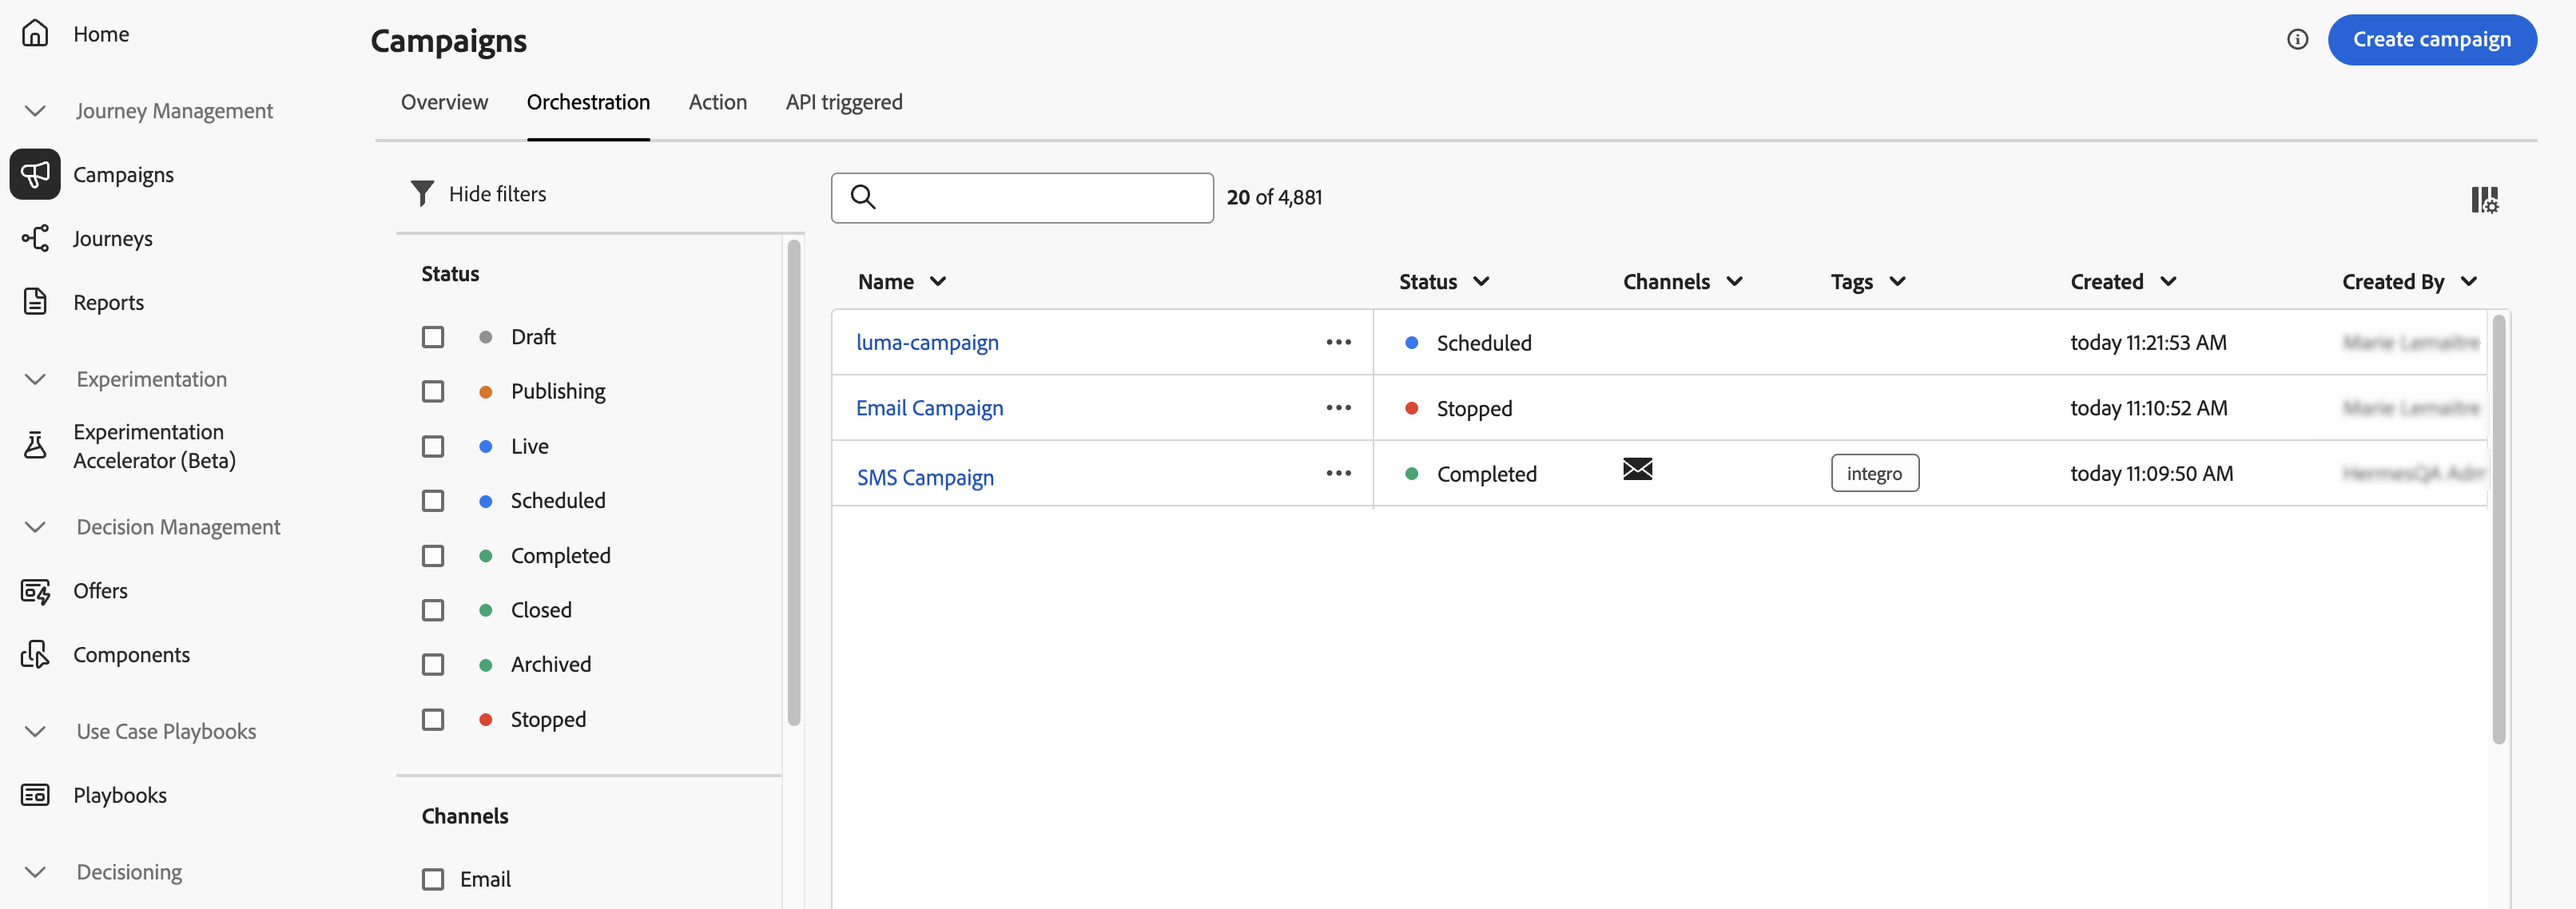
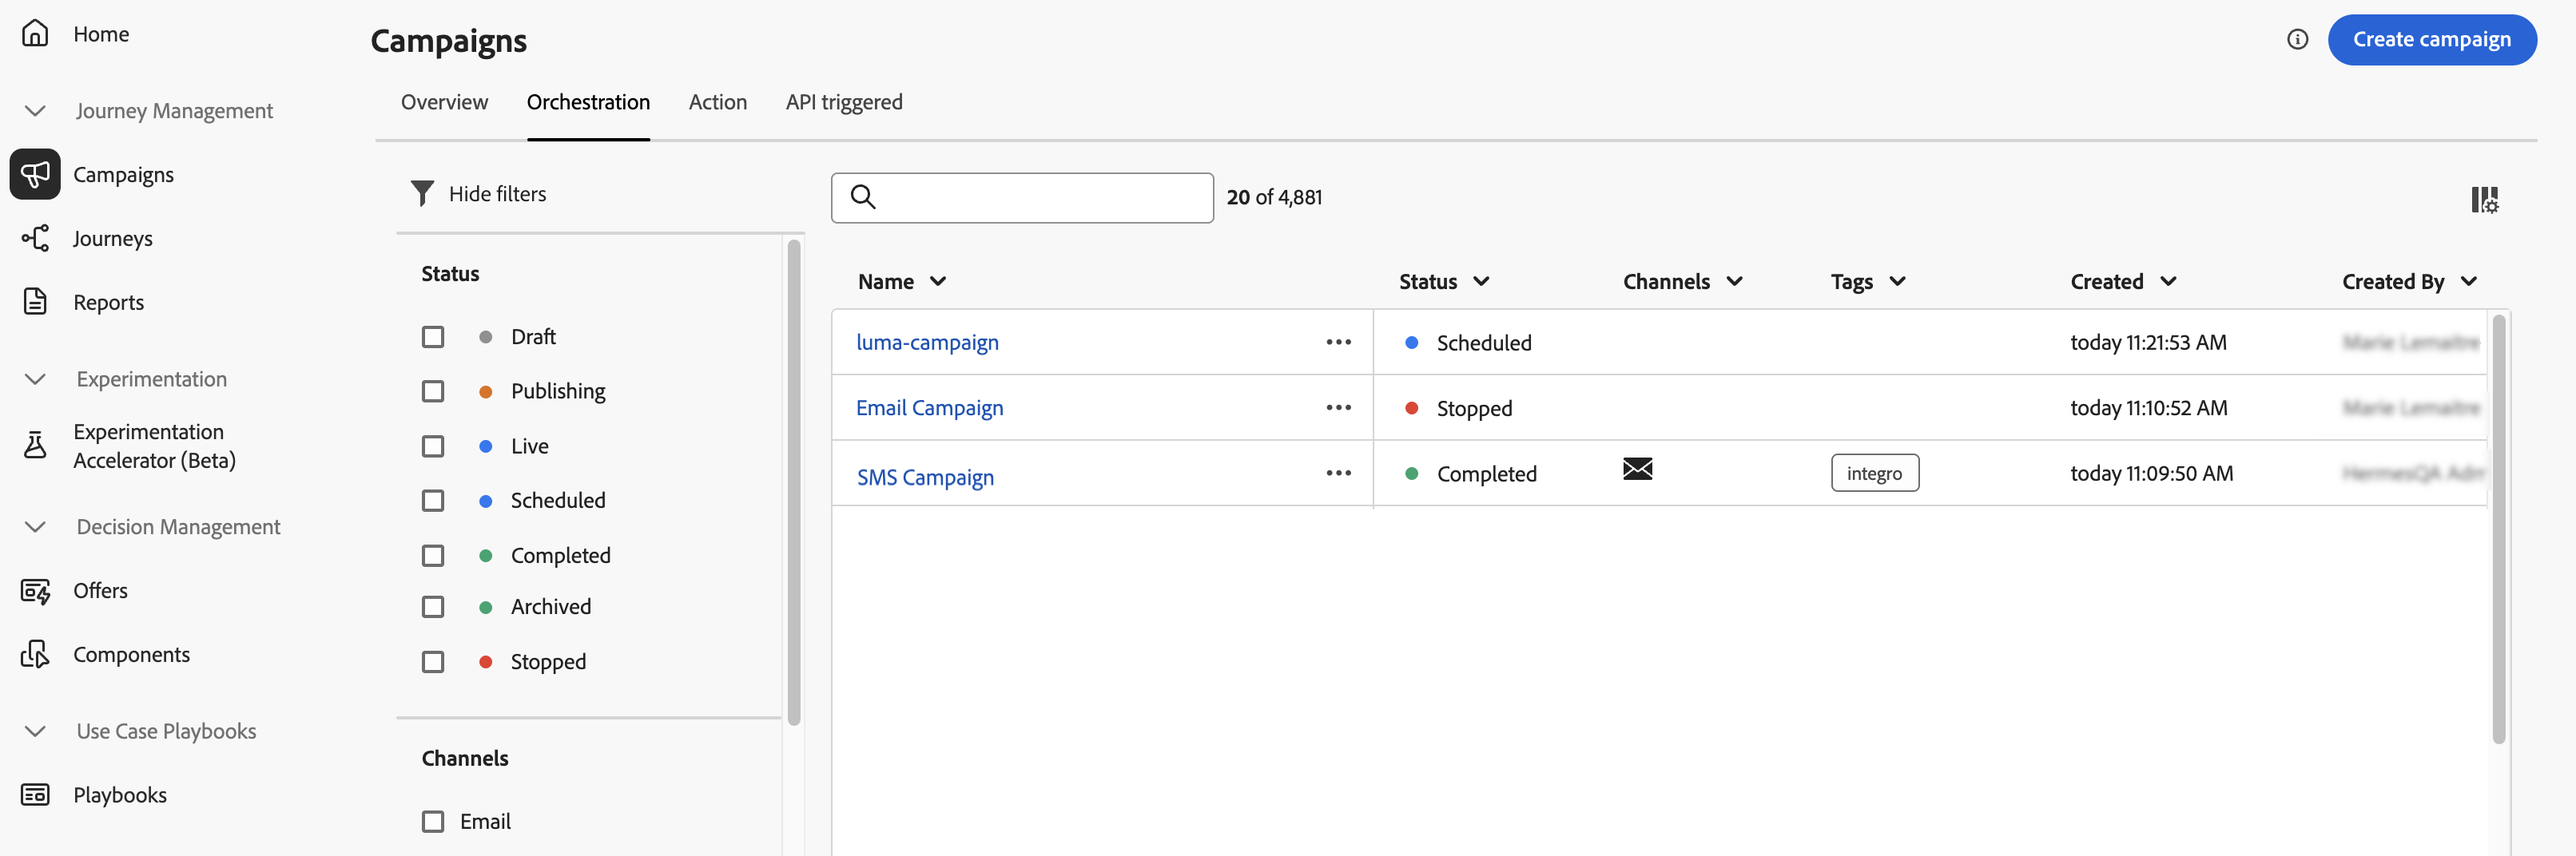
DOCAC-15923: Remove Closed campaign status (#3658)

diff --git a/help/using/campaigns/manage-campaigns.md b/help/using/campaigns/manage-campaigns.md
@@ -150,7 +150,6 @@ Each campaign moves through a lifecycle that is reflected by its status in the i
 | **[!UICONTROL Completed]** | ✅ | ✅ | ✅ | Execution complete (auto-assigned 3 days after activation or at end date for recurring) | [View reports](../reports/campaign-global-report-cja.md), [archive](#archive-a-campaign), or [duplicate](#duplicate-a-campaign) |
 | **[!UICONTROL Failed]** | ✅ | ✅ | — | Execution failed | Check logs, fix issues, [duplicate to retry](#duplicate-a-campaign) |
 | **[!UICONTROL Archived]** | ✅ | ✅ | ✅ | Archived (auto-deleted after 30 days) | [Retrieve using filter](#access) if needed |
-| **[!UICONTROL Closed]** | — | — | ✅ | Recurring campaign closed, no new entries allowed (continues until all activities complete) | Wait for completion |
 | **[!UICONTROL Publishing]** | — | — | ✅ | Being published | Wait for publishing to complete |
 
 >[!NOTE]

diff --git a/help/using/orchestrated/start-monitor-campaigns.md b/help/using/orchestrated/start-monitor-campaigns.md
@@ -50,7 +50,6 @@ Orchestrated campaigns move through a defined set of states. The key stages in t
 |---|---|
 | **Draft** | The campaign is being built and tested — not yet active. |
 | **Live** | The campaign has been published and is executing. |
-| **Closed** | The recurring campaign is closed to new entries, but active profiles continue until all activities complete. |
 | **Completed** | Campaign execution has finished. |
 
 >[!NOTE]
